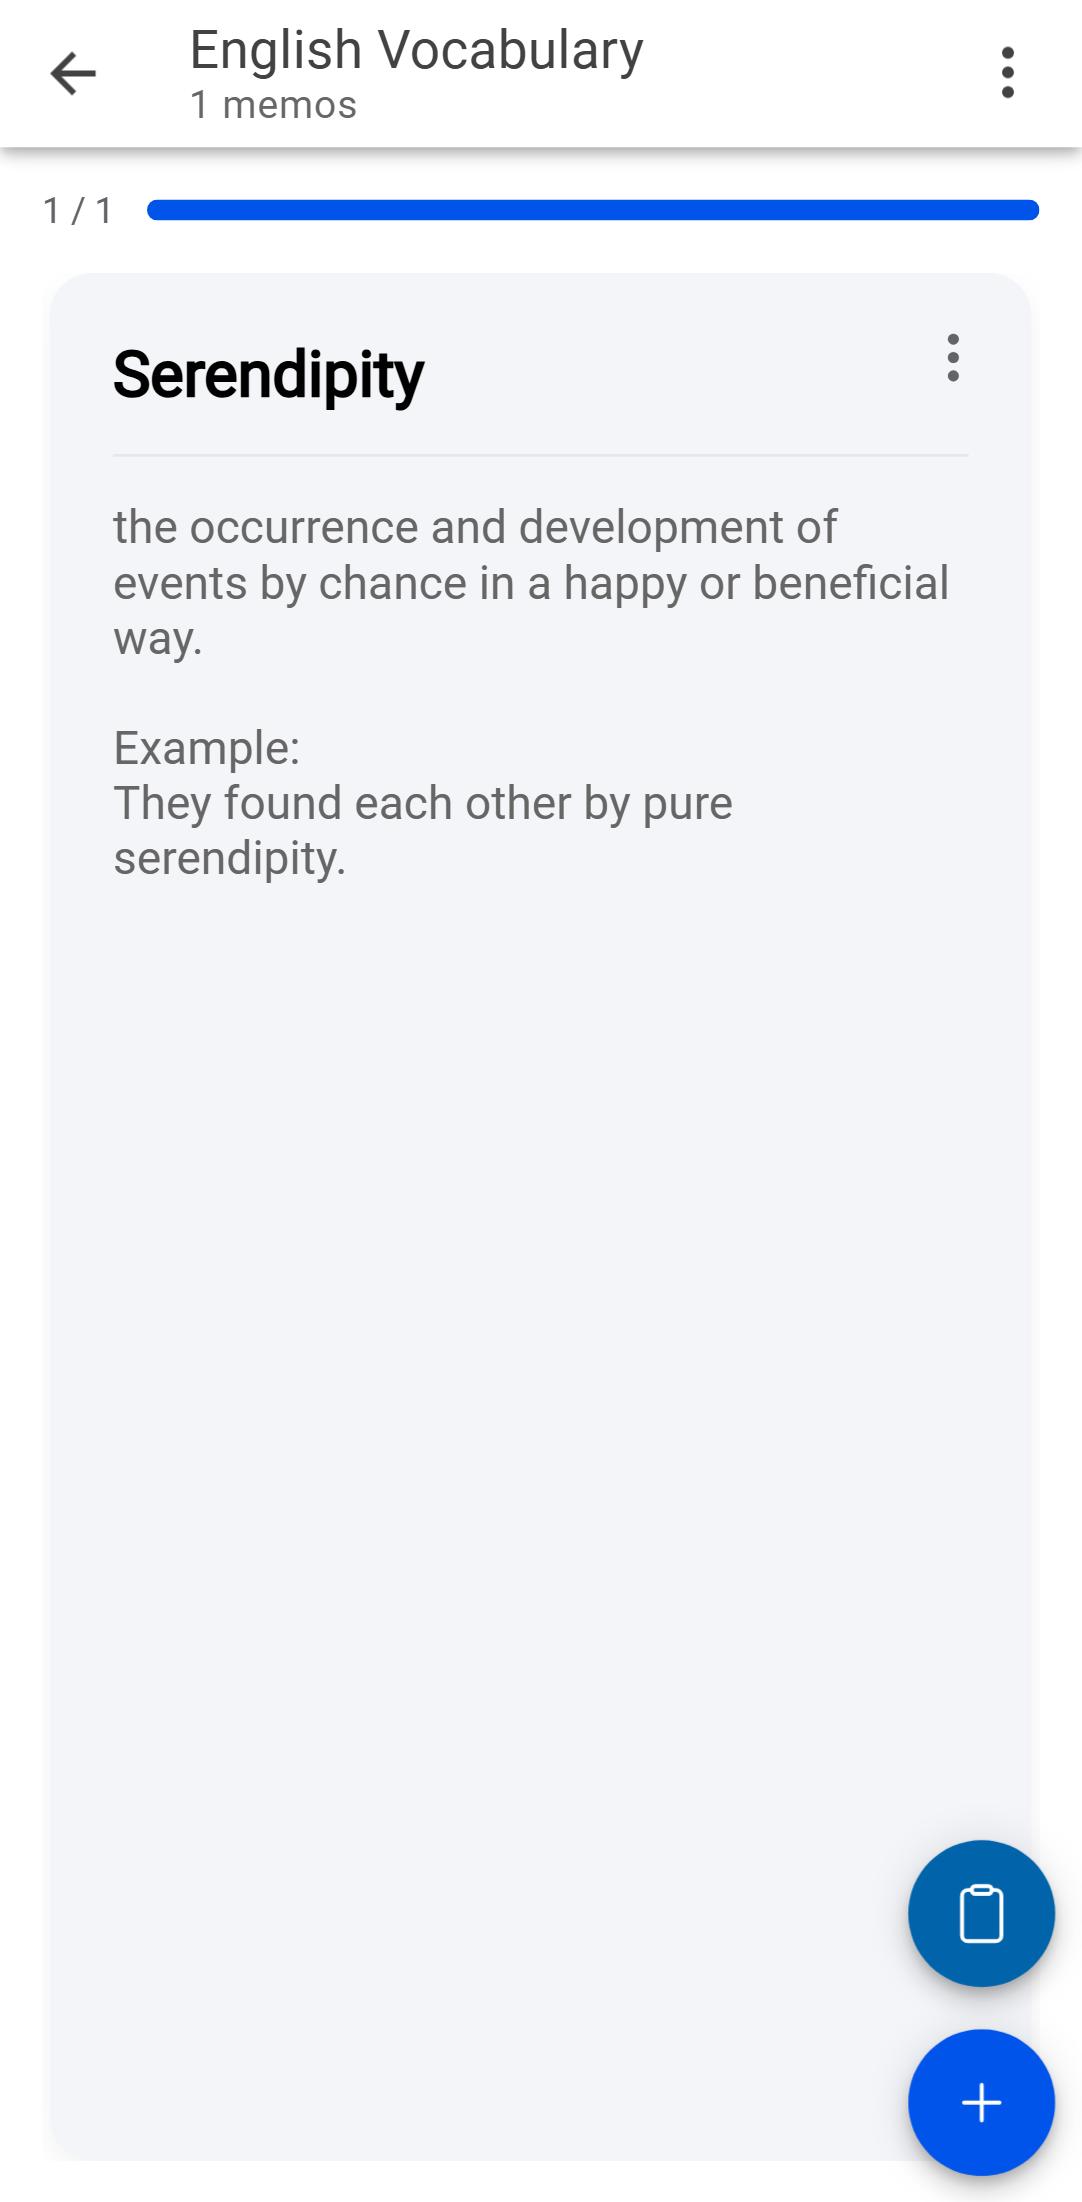
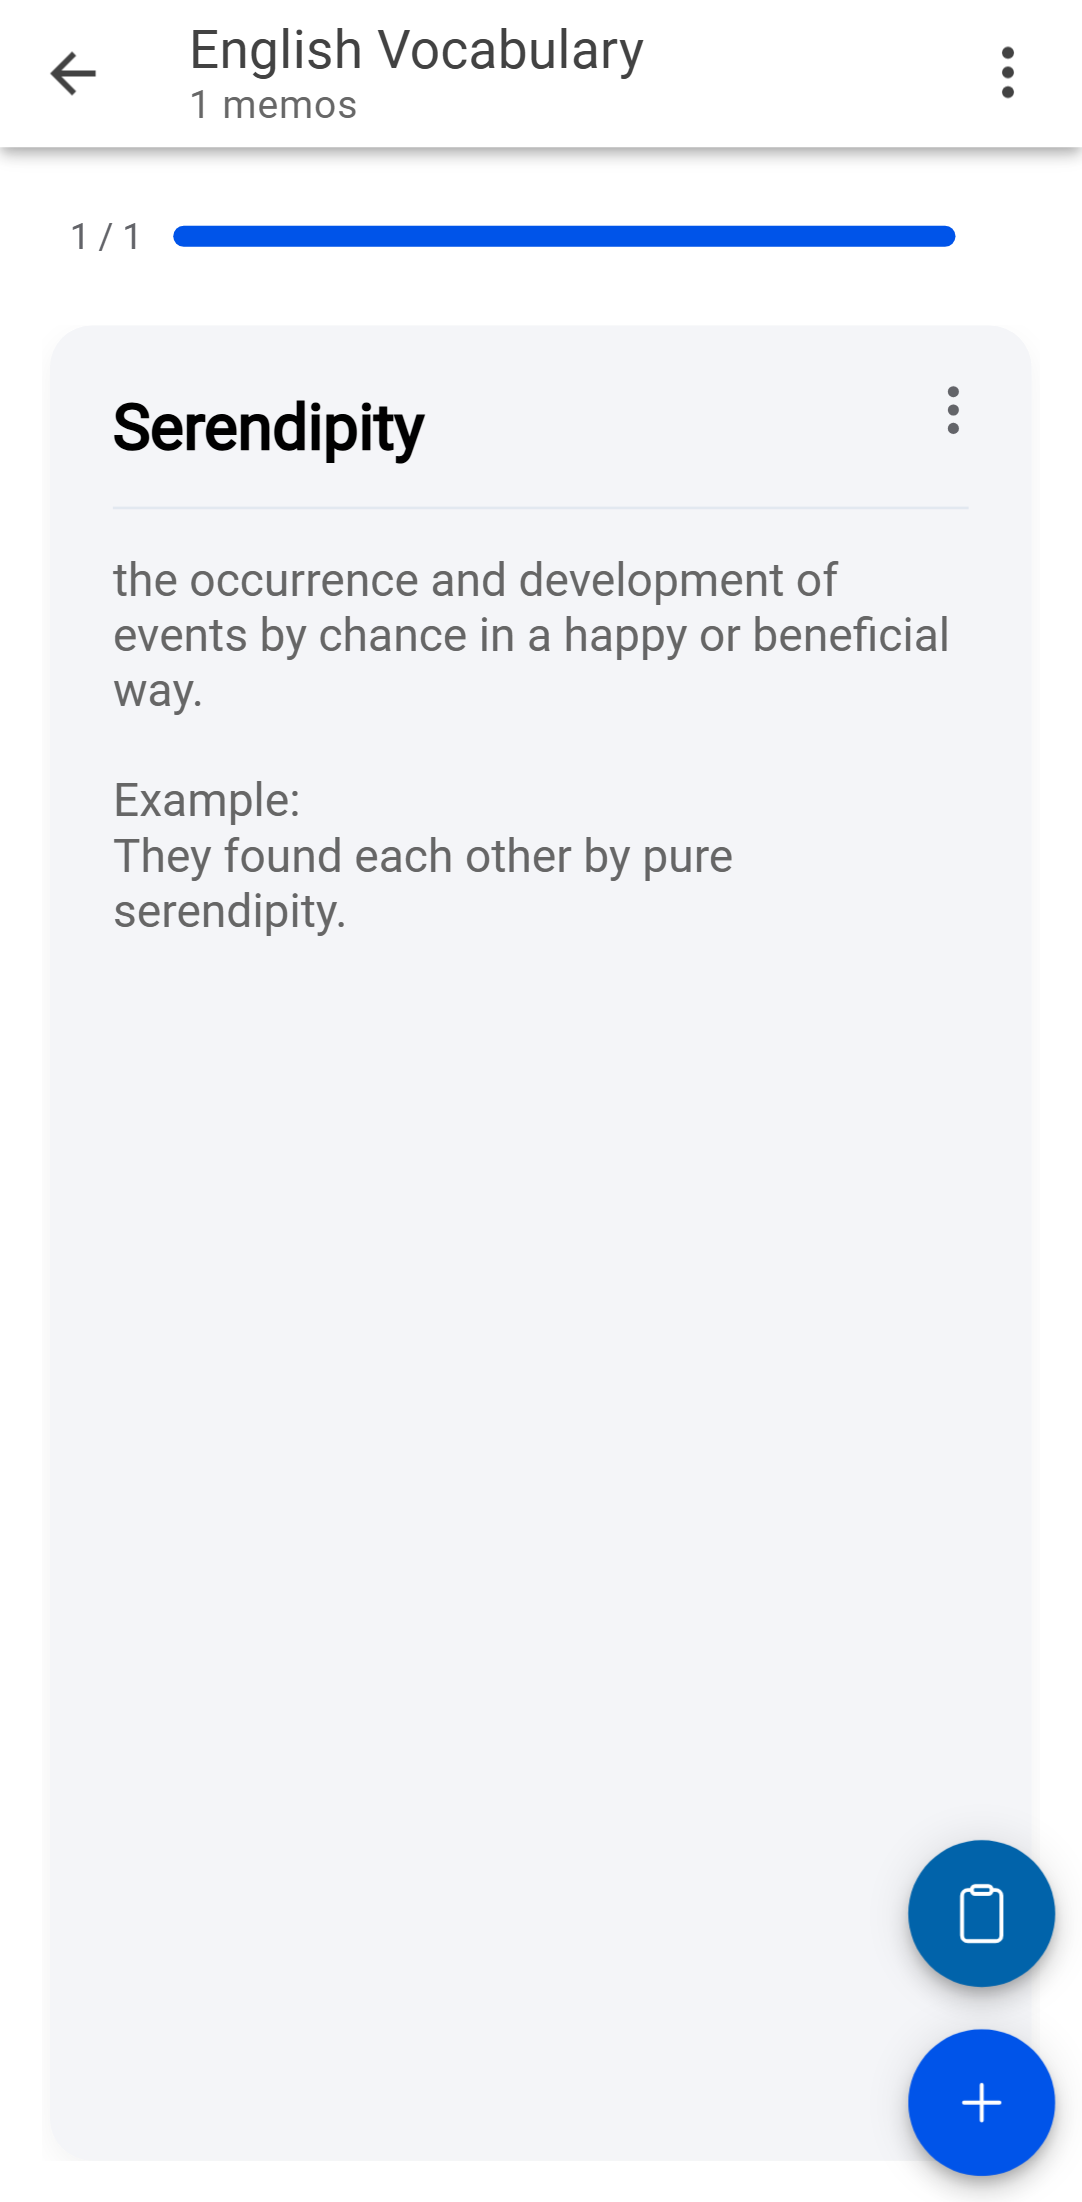
feat: support switching memos by dragging the progress bar handle

Changed region(s): [[0.0915, 0.1544, 0.8845, 0.4323], [0.0915, 0.0926, 0.976, 0.1235], [0.854, 0.1544, 0.8845, 0.1853]]

diff --git a/src/pages/NotebookPage.tsx b/src/pages/NotebookPage.tsx
@@ -5,7 +5,7 @@ import {
   IonContent, IonButton, IonIcon, IonFab, IonFabButton, IonActionSheet, IonText, useIonAlert
 } from '@ionic/react';
 import {
-  add, ellipsisVertical, checkmarkCircle, create, trash, clipboardOutline
+  add, ellipsisVertical, checkmarkCircle, create, trash, clipboardOutline, refresh
 } from 'ionicons/icons';
 import { Swiper, SwiperSlide } from 'swiper/react';
 import { Virtual } from 'swiper/modules';
@@ -60,6 +60,23 @@ const NotebookPage: React.FC = () => {
 
   const currentIndex = notebookMemos.findIndex(m => m.id === initialMemoId);
   const currentMemo = currentIndex >= 0 ? notebookMemos[currentIndex] : null;
+
+  const [originalIndex, setOriginalIndex] = useState<number | null>(null);
+  const [hasDragged, setHasDragged] = useState(false);
+  const [swiperInstance, setSwiperInstance] = useState<any>(null);
+  const [sliderIndex, setSliderIndex] = useState(currentIndex >= 0 ? currentIndex : 0);
+
+  useEffect(() => {
+    if (currentIndex >= 0) {
+      setSliderIndex(currentIndex);
+    }
+  }, [currentIndex]);
+
+  useEffect(() => {
+    if (originalIndex === null && currentIndex >= 0) {
+      setOriginalIndex(currentIndex);
+    }
+  }, [currentIndex, originalIndex]);
 
   const handleToggleAlwaysShow = () => {
     updateProgress(notebookId, {
@@ -140,20 +157,115 @@ const NotebookPage: React.FC = () => {
         ) : currentMemo ? (
           <div style={{ display: 'flex', flexDirection: 'column', height: '100%' }}>
             <div style={{ display: 'flex', alignItems: 'center', marginBottom: '16px' }}>
-              <span style={{ fontSize: '0.85em', color: 'var(--ion-color-medium)', marginRight: '12px' }}>
-                {currentIndex + 1} / {notebookMemos.length}
+              <span style={{
+                fontSize: '0.85em',
+                color: 'var(--ion-color-medium)',
+                marginRight: '12px',
+                minWidth: `${String(notebookMemos.length).length * 2 + 3}ch`,
+                textAlign: 'right',
+                fontVariantNumeric: 'tabular-nums'
+              }}>
+                {sliderIndex + 1} / {notebookMemos.length}
               </span>
-              <div style={{ flex: 1, height: '8px', background: 'var(--ion-color-light)', borderRadius: '4px', overflow: 'hidden' }}>
-                <div style={{
-                  height: '100%',
-                  width: `${((currentIndex + 1) / notebookMemos.length) * 100}%`,
-                  background: 'var(--ion-color-primary)',
-                  transition: 'width 0.3s ease'
-                }} />
+
+              <div style={{ position: 'relative', flex: 1, height: '24px', display: 'flex', alignItems: 'center' }}>
+                <div style={{ position: 'absolute', top: '50%', transform: 'translateY(-50%)', width: '100%', height: '8px', background: 'var(--ion-color-light)', borderRadius: '4px' }}>
+                  <div style={{
+                    height: '100%',
+                    width: `${notebookMemos.length > 1 ? (sliderIndex / (notebookMemos.length - 1)) * 100 : 100}%`,
+                    background: 'var(--ion-color-primary)',
+                    borderRadius: '4px',
+                    transition: 'width 0.3s ease'
+                  }} />
+                </div>
+
+                {hasDragged && originalIndex !== null && notebookMemos.length > 1 && (
+                  <div
+                    data-testid="original-index-marker"
+                    style={{
+                      position: 'absolute',
+                      top: '50%',
+                      left: `${(originalIndex / (notebookMemos.length - 1)) * 100}%`,
+                      transform: 'translate(-50%, -50%)',
+                      width: '4px',
+                      height: '16px',
+                      background: 'var(--ion-color-medium)',
+                      borderRadius: '2px',
+                      zIndex: 1,
+                      pointerEvents: 'none'
+                    }} />
+                )}
+
+                <input
+                  type="range"
+                  min={0}
+                  max={notebookMemos.length > 1 ? notebookMemos.length - 1 : 0}
+                  value={sliderIndex}
+                  onChange={(e) => {
+                    setHasDragged(true);
+                    const newIndex = parseInt(e.target.value, 10);
+                    setSliderIndex(newIndex);
+                    if (swiperInstance) {
+                      swiperInstance.slideTo(newIndex);
+                    }
+                  }}
+                  style={{
+                    position: 'absolute',
+                    top: 0,
+                    left: 0,
+                    width: '100%',
+                    height: '100%',
+                    margin: 0,
+                    opacity: 0,
+                    cursor: 'pointer',
+                    zIndex: 3
+                  }}
+                />
+
+                {notebookMemos.length > 1 && (
+                  <div style={{
+                    position: 'absolute',
+                    top: '50%',
+                    left: `${(sliderIndex / (notebookMemos.length - 1)) * 100}%`,
+                    transform: 'translate(-50%, -50%)',
+                    width: '16px',
+                    height: '16px',
+                    background: 'var(--ion-background-color, #fff)',
+                    border: '2px solid var(--ion-color-primary)',
+                    borderRadius: '50%',
+                    zIndex: 2,
+                    pointerEvents: 'none',
+                    transition: 'left 0.3s ease',
+                    boxShadow: '0 2px 4px rgba(0,0,0,0.2)'
+                  }} />
+                )}
               </div>
+
+              <IonButton
+                data-testid="reset-progress-button"
+                fill="clear"
+                size="small"
+                style={{
+                  visibility: hasDragged ? 'visible' : 'hidden',
+                  '--padding-start': '4px',
+                  '--padding-end': '4px'
+                }}
+                onClick={() => {
+                  if (hasDragged && originalIndex !== null && swiperInstance) {
+                    swiperInstance.slideTo(originalIndex);
+                    setHasDragged(false);
+                  }
+                }}
+              >
+                <IonIcon slot="icon-only" icon={refresh} color="medium" />
+              </IonButton>
             </div>
 
             <Swiper
+              onSwiper={setSwiperInstance}
+              onSlideChange={(swiper) => {
+                setSliderIndex(swiper.activeIndex);
+              }}
               modules={[Virtual]}
               virtual={{ addSlidesBefore: 2, addSlidesAfter: 2 }}
               style={{ flex: 1, width: '100%', height: '100%' }}

diff --git a/tests/notebook-progress-bar.spec.ts b/tests/notebook-progress-bar.spec.ts
@@ -1,0 +1,86 @@
+import { test, expect } from '@playwright/test';
+import {
+  waitForIonicPage,
+  clearStorage,
+  createNotebook,
+  addMemo,
+} from './test-utils';
+
+test.describe('Notebook Progress Bar and Slider', () => {
+  test.beforeEach(async ({ page }) => {
+    await page.goto('/');
+    await clearStorage(page);
+    await page.reload();
+    await waitForIonicPage(page);
+  });
+
+  test('Single memo edge case - slider handle is hidden and max is 0', async ({ page }) => {
+    const notebookName = 'Single Memo Notebook';
+    await createNotebook(page, notebookName);
+    
+    // Add one memo
+    await addMemo(page, 'Memo 1', 'Explanation 1');
+    
+    // Verify progress text
+    const indexText = page.locator('span', { hasText: '1 / 1' });
+    await expect(indexText).toBeVisible();
+    await expect(indexText).toHaveCSS('text-align', 'right');
+    await expect(indexText).toHaveCSS('font-variant-numeric', 'tabular-nums');
+
+    // Verify slider attributes
+    const slider = page.locator('input[type="range"]');
+    await expect(slider).toBeVisible();
+    await expect(slider).toHaveAttribute('max', '0');
+
+    // Reset button should not be visible
+    const resetButton = page.getByTestId('reset-progress-button');
+    await expect(resetButton).toHaveCSS('visibility', 'hidden');
+  });
+
+  test('Multiple memos - initial state, dragging, and resetting', async ({ page }) => {
+    const notebookName = 'Multi Memo Notebook';
+    await createNotebook(page, notebookName);
+    
+    // Add three memos
+    await addMemo(page, 'Memo 1', 'Explanation 1');
+    await addMemo(page, 'Memo 2', 'Explanation 2');
+    await addMemo(page, 'Memo 3', 'Explanation 3');
+    
+    // Check initial state (should be on Memo 1, index 0)
+    await expect(page.locator('span', { hasText: '1 / 3' })).toBeVisible();
+    
+    const slider = page.locator('input[type="range"]');
+    await expect(slider).toHaveValue('0');
+    await expect(slider).toHaveAttribute('max', '2');
+    
+    const resetButton = page.getByTestId('reset-progress-button');
+    await expect(resetButton).toHaveCSS('visibility', 'hidden');
+
+    // Simulate dragging slider to index 2 (Memo 3)
+    await slider.fill('2');
+    await slider.dispatchEvent('change'); // trigger the onChange event
+
+    // Check state after drag
+    await expect(page.locator('span', { hasText: '3 / 3' })).toBeVisible();
+    await expect(resetButton).toHaveCSS('visibility', 'visible');
+    
+    // Verify Swiper navigated to Memo 3
+    await expect(page.locator('.swiper-slide-active:has-text("Memo 3")')).toBeVisible();
+
+    // Verify original index marker is visible (at left 0%)
+    const marker = page.getByTestId('original-index-marker');
+    await expect(marker).toBeVisible();
+
+    // Reset back to original
+    await resetButton.click();
+
+    // Check state after reset
+    await expect(page.locator('span', { hasText: '1 / 3' })).toBeVisible();
+    await expect(slider).toHaveValue('0');
+    await expect(resetButton).toHaveCSS('visibility', 'hidden');
+    await expect(page.locator('.swiper-slide-active:has-text("Memo 1")')).toBeVisible();
+    
+    // Marker should disappear
+    await expect(marker).toBeHidden();
+  });
+});